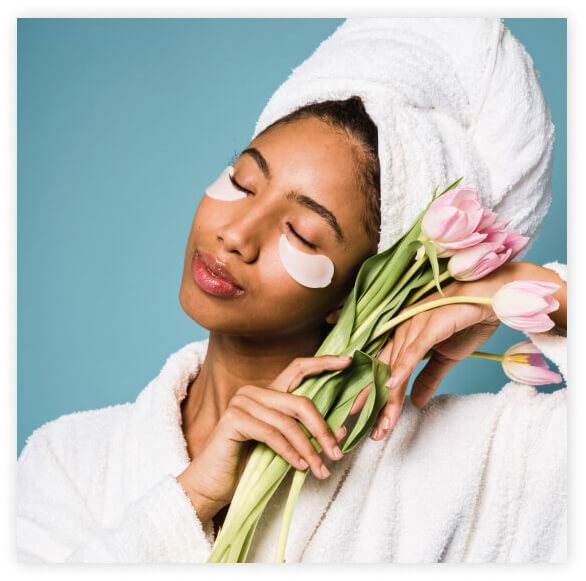
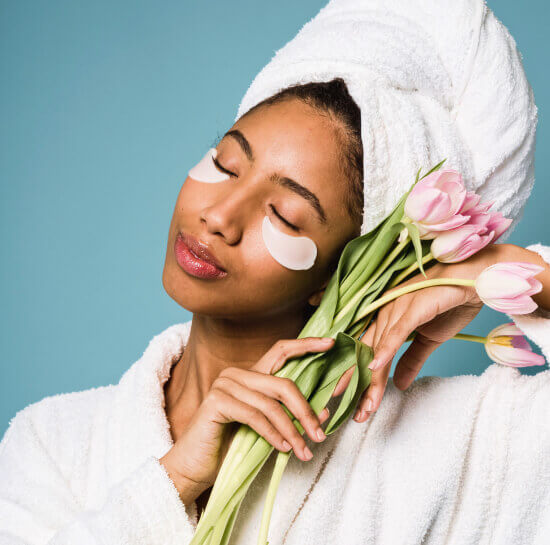
add section landing-page and service

diff --git a/css/style.css b/css/style.css
@@ -1,4 +1,9 @@
 
+body{
+  font-family: Monrope;
+  font-weight: 400;
+  font-style: normal;
+}
 
 
 
@@ -15,16 +20,17 @@
 }
 
 .container{
-  max-width: 1240;
-  margin: 0 auto;
+  max-width: 1240px;
+  margin:0 auto;
   padding: 0 20px;
+  box-sizing: border-box;
 }
 #navbar{
   display: flex;
   align-items: center;
   justify-content: space-between;
   padding-top: 20px;
-  table-layout: 20px;
+  padding-bottom: 20px;
 }
 .navbar-logo-list{
   display: flex;
@@ -127,4 +133,196 @@
 }
 .button-reservation-call{
   margin-right: 10px;
+}
+
+
+
+/* landing-page */
+#landing-page{
+  background-color: #EBF3F5;
+
+}
+
+
+
+.landing-page{
+  display: flex;
+}
+
+
+.landing-page-info{
+  margin-top: 220px;
+  margin-bottom: 220px;
+  position: relative;
+}
+.landing-page-info-title{
+  font-family: Manrope;
+  font-style: normal;
+  font-weight: 400;
+  font-size: 15px;
+  line-height: 22px;
+  letter-spacing: 1.5px;
+  text-transform: uppercase;
+  color: #5C8692;
+  margin: 0;
+  padding: 0;
+}
+
+.landing-page-info-heading{
+  font-family: Playfair Display;
+  font-style: normal;
+  font-weight: 400;
+  font-size: 55px;
+  line-height: 71px;
+  letter-spacing: 0.66px;
+  color: #141414;
+  margin: 0;
+  padding: 0;
+}
+.landing-page-info-text{
+  font-family: Manrope;
+  font-style: normal;
+  font-weight: 400;
+  font-size: 19px;
+  line-height: 30px;
+  color: #555555;
+  margin: 0;
+  padding: 0;
+  margin-top: 20px;
+  margin-bottom: 26px;
+}
+
+.landing-page-info-button-link{
+  display: inline-block;
+  font-family: Manrope;
+  font-style: normal;
+  font-weight: 400;
+  font-size: 13px;
+  line-height: 19px;
+  letter-spacing: 1.56px;
+  text-transform: uppercase;
+  color: #FFFFFF;
+  padding: 18px 32px;
+  background: #5C8692;
+  border: 2px solid #5C8692;
+  box-sizing: border-box;
+  border-radius: 0px;
+  transition: color 0.4s ease;
+  transition: background-color 0.4s ease;
+  text-decoration: none;
+  margin: 0;
+}
+.landing-page-info-button-link:hover{
+  color: #141414;
+  background-color: #fff;
+}
+.landing-page-photo{
+  position: relative;
+
+}
+.span{
+  border: 10px solid #5C8692;
+  box-sizing: border-box;
+  border-radius: 0px;
+  width: 592px;
+  height: 645px;
+  position: absolute;
+  top: 120px;
+  left: 141px;
+  border-left: 0;
+}
+.span-top{
+  border-left: 10px solid #5C8692;
+  box-sizing: border-box;
+  border-radius: 0px;
+  width: 592px;
+  height: 50px;
+  position: absolute;
+  top: 120px;
+  left: 131px;
+}
+.span-bottom{
+  border-left: 10px solid #5C8692;
+  box-sizing: border-box;
+  border-radius: 0px;
+  width: 592px;
+  height: 50px;
+  position: absolute;
+  top: 715px;
+  left: 131px;
+}
+.landing-page-photo-img{
+  margin-left: 100px;
+  position: absolute;
+  top: 170px;
+
+}
+
+
+/* services */
+
+
+.service{
+  display: flex;
+  margin: 0;
+  padding-bottom: 110px;
+  padding-top: 100px;
+}
+.service img{
+  margin-bottom: 16px;
+}
+.massage{
+  margin-right: 30px;
+}
+
+.hair-buity{
+  margin-right: 30px;
+}
+.services-heading{
+  font-family: Playfair Display;
+  font-style: normal;
+  font-weight: 400;
+  font-size: 26px;
+  line-height: 36px;
+  letter-spacing: 0.312px;
+  color: #141414;
+  padding: 0;
+  margin: 0;
+  margin-bottom: 13px;
+}
+.services-text{
+  font-family: Manrope;
+  font-style: normal;
+  font-weight: normal;
+  font-size: 18px;
+  line-height: 31px;
+  letter-spacing: 0.36px;
+  color: #555555;
+  margin: 0;
+  padding: 0;
+  margin-bottom: 17px;
+
+}
+.services-button-link{
+  font-family: Manrope;
+  font-style: normal;
+  font-weight: normal;
+  font-size: 13px;
+  line-height: 19px;
+  text-align: center;
+  letter-spacing: 1.56px;
+  text-transform: uppercase;
+  color: #141414;
+  text-decoration: none;
+  padding: 18px 32px;
+  border: 2px solid #5C8692;
+  box-sizing: border-box;
+  border-radius: 0px;
+  display: inline-block;
+  transition: color 0.4s ease;
+  transition: background-color 0.4s ease;
+}
+.services-button-link:hover{
+  color: #fff;
+  background: #5C8692;
 }

diff --git a/index.html b/index.html
@@ -41,6 +41,54 @@
     </div>
 
   </header>
+  <main>
+    <section id="landing-page">
+      <div class="container">
+        <div class="landing-page ">
+          <div class="landing-page-info">
+            <p class="landing-page-info-title" >Welcome to Beautyness!!!</p>
+            <h2 class="landing-page-info-heading" >Bring The well<br> being & beauty<br> naturally!!!</h2>
+            <p class="landing-page-info-text" >Your body does a lot for you, and your caring therapist<br> can help you return the favor in a way that benefits<br> both your physical and mental wellness.</p>
+            <a class="landing-page-info-button-link" href="#">Make a reservation</a>
+          </div>
+          <div class="landing-page-photo">
+            <a class="landing-page-photo-img" href="#"><img  src="img/IMAGE.jpg" srcset="img/IMAGE.jpg 1x, img/IMAGE@2x.jpg 2x" alt="qo'lida gul ushlab turgan qiz rasmi" width="550" height="545">
+              <a href="#">
+                <span class="span"></span>
+                <span class="span-top"></span>
+                <span class="span-bottom"></span>
+
+              </a>
+            </a>
+          </div>
+        </div>
+      </div>
+    </section>
+    <section id="service">
+      <div class="container">
+        <div class="service">
+          <div class="massage">
+            <img src="/img/face-masseg.jpg" srcset="/img/face-masseg.jpg 1x, /img/face-masseg@2x.jpg 2x" alt="yuzini massaj qildirayotgan ayol" width="380" height="288">
+            <h3 class="services-heading">Spa & Massage</h3>
+            <p class="services-text">Your wellness goals and the areas of<br>preference, then unwind with a<br> customized massage experience.</p>
+            <a class="services-button-link" href="#">Read more</a>
+          </div>
+          <div class="hair-buity">
+            <img src="/img/foot-bath.jpg" srcset="/img/foot-bath.jpg 1x, /img/foot-bath@2x.jpg 2x" alt="oyog vannasi" width="380" height="288">
+            <h3 class="services-heading">Hair & Beauty</h3>
+            <p class="services-text">Combining skin-type-specific cleansing &<br> toning, exfoliation, deep-pore cleansing<br> extractions customized treatment.</p>
+            <a class="services-button-link" href="#">Read more</a>
+          </div>
+          <div class="body-traitments">
+            <img src="/img/hair-style.jpg" srcset="/img/hair-style.jpg 1x, /img/hair-style@2x.jpg 2x" alt="sochini turmaklayotgan qiz" width="380" height="288">
+            <h3 class="services-heading">Body Treatments</h3>
+            <p class="services-text">Offers therapeutic benefits such as relief<br> of muscle tension and increased<br> circulation to the areas worked.</p>
+            <a class="services-button-link" href="#">Read more</a>
+          </div>
+        </div>
+      </div>
+    </section>
+  </main>
 
 
 
